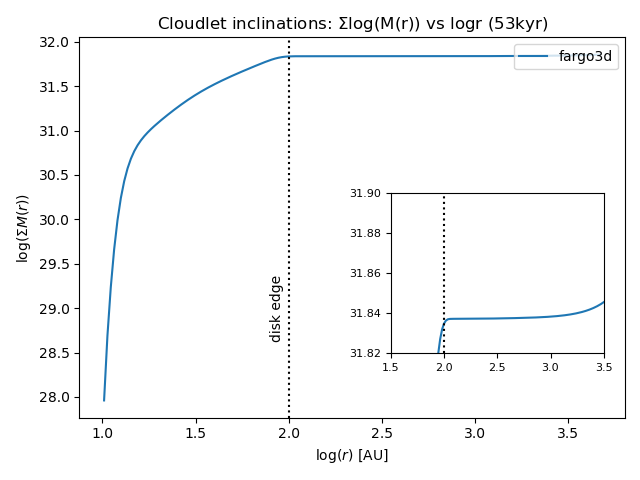
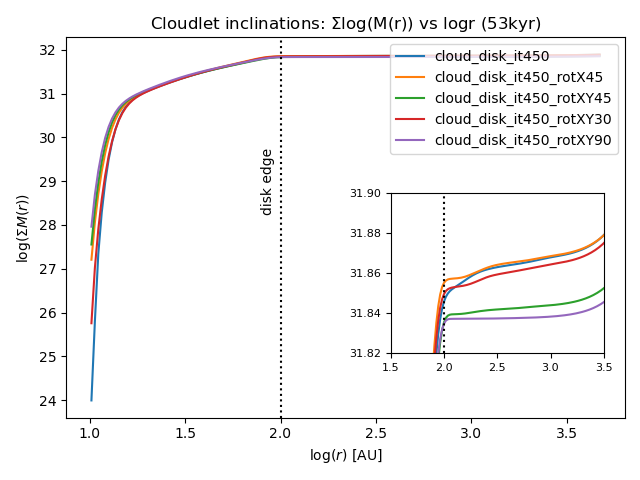
iras04125_it450_cmass01 & cmass01_b01 imgs

diff --git a/time_evol.py b/time_evol.py
@@ -24,12 +24,12 @@ stoky = 3.156e7 * 1e3     # 1 kyr in sec
 def main():
 
 
-    # folder = Path("../cloud_disk_it450_retro_rotX45/")                        # Folder with the FARGO output files
-    folder = Path("../fargo3d/outputs/iras04125_it450/")          # Folder with the FARGO output files (Binac2)
-    fig_imgs = Path("iras04125_it450/imgs/")                      # Folder to save images    
+    # folder = Path("../iras04125_it450_cmass01_b01/")                        # Folder with the FARGO output files
+    folder = Path("../fargo3d/outputs/iras04125_it450_cmass01_b01/")          # Folder with the FARGO output files (Binac2)
+    fig_imgs = Path("iras04125_it450_cmass01_b01/imgs/")                      # Folder to save images    
     iter_total = 450                                     # FARGO snapshot
 
-    first_it = 150
+    first_it = 200
     iter_check = np.arange(first_it, iter_total+1, 50)                       # Some iterations to plot
     sim_name = str(fig_imgs).split('/')[0]                                     # Simulation name (for plot labels)
     dt_years = calc_simtime(np.asarray(range(first_it, iter_total+1)))       # Convert iterations to kyrs
@@ -95,7 +95,7 @@ def main():
 
         # Note 1: I am using centered densities to isolate the warp to match the indices corresponding to the warp with the angular momenta indices
         # Note 2: The warp_ids itself is a 3D Boolean array, but when applied to another array such as x[warp_ids], the latter array becomes 1D
-        warp_thresh = -14.5   # log of density threshold for which we can see the warp in the primary
+        warp_thresh = -15   # log of density threshold for which we can see the warp in the primary
         warp_buffer = 500     # Isolates a box of 2 * warp_buffer around the star (AU)
         rho_c_warp, vx_c_warp, vy_c_warp, vz_c_warp, Lx_c_warp, Ly_c_warp, Lz_c_warp, warp_ids = isolate_disk(X_c, Y_c, Z_c, Px * au, Py * au, Pz * au, warp_buffer * au, rho_c, vx_c, vy_c, vz_c, Lx, Ly, Lz, warp_thresh) 
 
@@ -293,6 +293,8 @@ def main():
 
 
     # Plot time evolution of surface densities
+    fig = plt.figure(figsize=(8, 6))
+    ax = fig.add_subplot(111, projection='3d')
     for i in range(len(surf_dens_iter)):
         plt.plot(r_surf_dens_iter[i]/au, surf_dens_iter[i], color=cols(i), label=f"{int(dtkyrs_check[i])} kyr")
     plt.xlabel("R [AU]")

diff --git a/analysis.py b/analysis.py
@@ -504,9 +504,9 @@ def calc_total_L(Lx_avg, Ly_avg, Lz_avg):
 
 def main():
 
-    # folder = Path("../iras04125_it450/")                        # Folder with the output files
-    folder = Path("../fargo3d/outputs/iras04125_it450")         # Folder with the output files (BinAC2)
-    fig_imgs = Path("iras04125_it450/imgs/")                    # Folder to save images
+    # folder = Path("../iras04125_it450_cmass01_b01/")                        # Folder with the output files
+    folder = Path("../fargo3d/outputs/iras04125_it450_cmass01_b01")         # Folder with the output files (BinAC2)
+    fig_imgs = Path("iras04125_it450_cmass01_b01/imgs/")                    # Folder to save images
     it = 450                                                       # FARGO snapshot of interest
     sim_name = str(fig_imgs).split('/')[0]                         # Simulation name (for plot labels)
     sim_params = load_par_file(f"{sim_name}/{sim_name}.par")       # Loading simulation parameters from the .par file
@@ -562,7 +562,7 @@ def main():
 
     # Note 1: I am using centered densities to isolate the warp to match the indices corresponding to the warp with the angular momenta indices
     # Note 2: The warp_ids itself is a 3D Boolean array, but when applied to another array such as x[warp_ids], the latter array becomes 1D
-    warp_thresh = -14.5   # log of density threshold for which we can see the warp in the primary
+    warp_thresh = -15   # log of density threshold for which we can see the warp in the primary
     warp_buffer = 500   # Isolates a box of 2 * warp_buffer around the star (AU)
     rho_c_warp, vx_c_warp, vy_c_warp, vz_c_warp, Lx_c_warp, Ly_c_warp, Lz_c_warp, warp_ids = isolate_disk(X_c, Y_c, Z_c, Px * au, Py * au, Pz * au, warp_buffer * au, rho_c, vx_c, vy_c, vz_c, Lx, Ly, Lz, warp_thresh) 
 

diff --git a/mass_vs_r.py b/mass_vs_r.py
@@ -647,7 +647,7 @@ def main():
 
     for f in inc_folders:
         
-        f_sim_name = str(f).split('/')[1]                       # Simulation name (for plot labels)
+        f_sim_name = str(f).split('/')[3]                       # Simulation name (for plot labels)
         domains = get_domain_spherical(f)                       # Load coordinates
         f_rho = get_data(f, "dens", it, domains)                # Load 3D array of density values            
 
